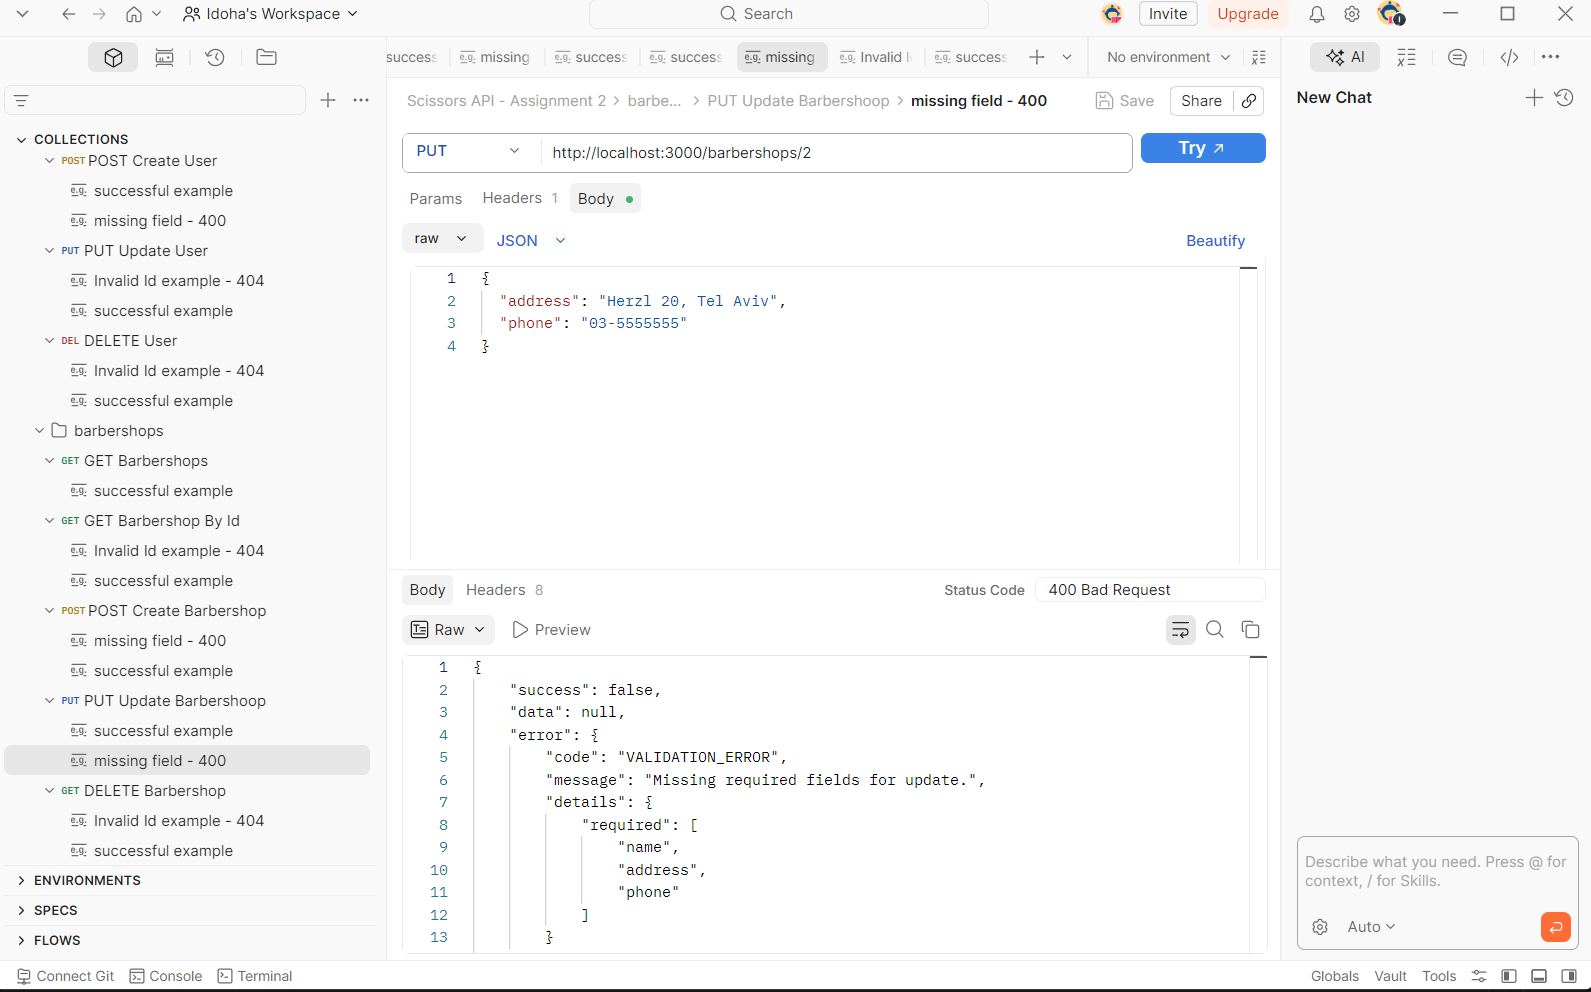
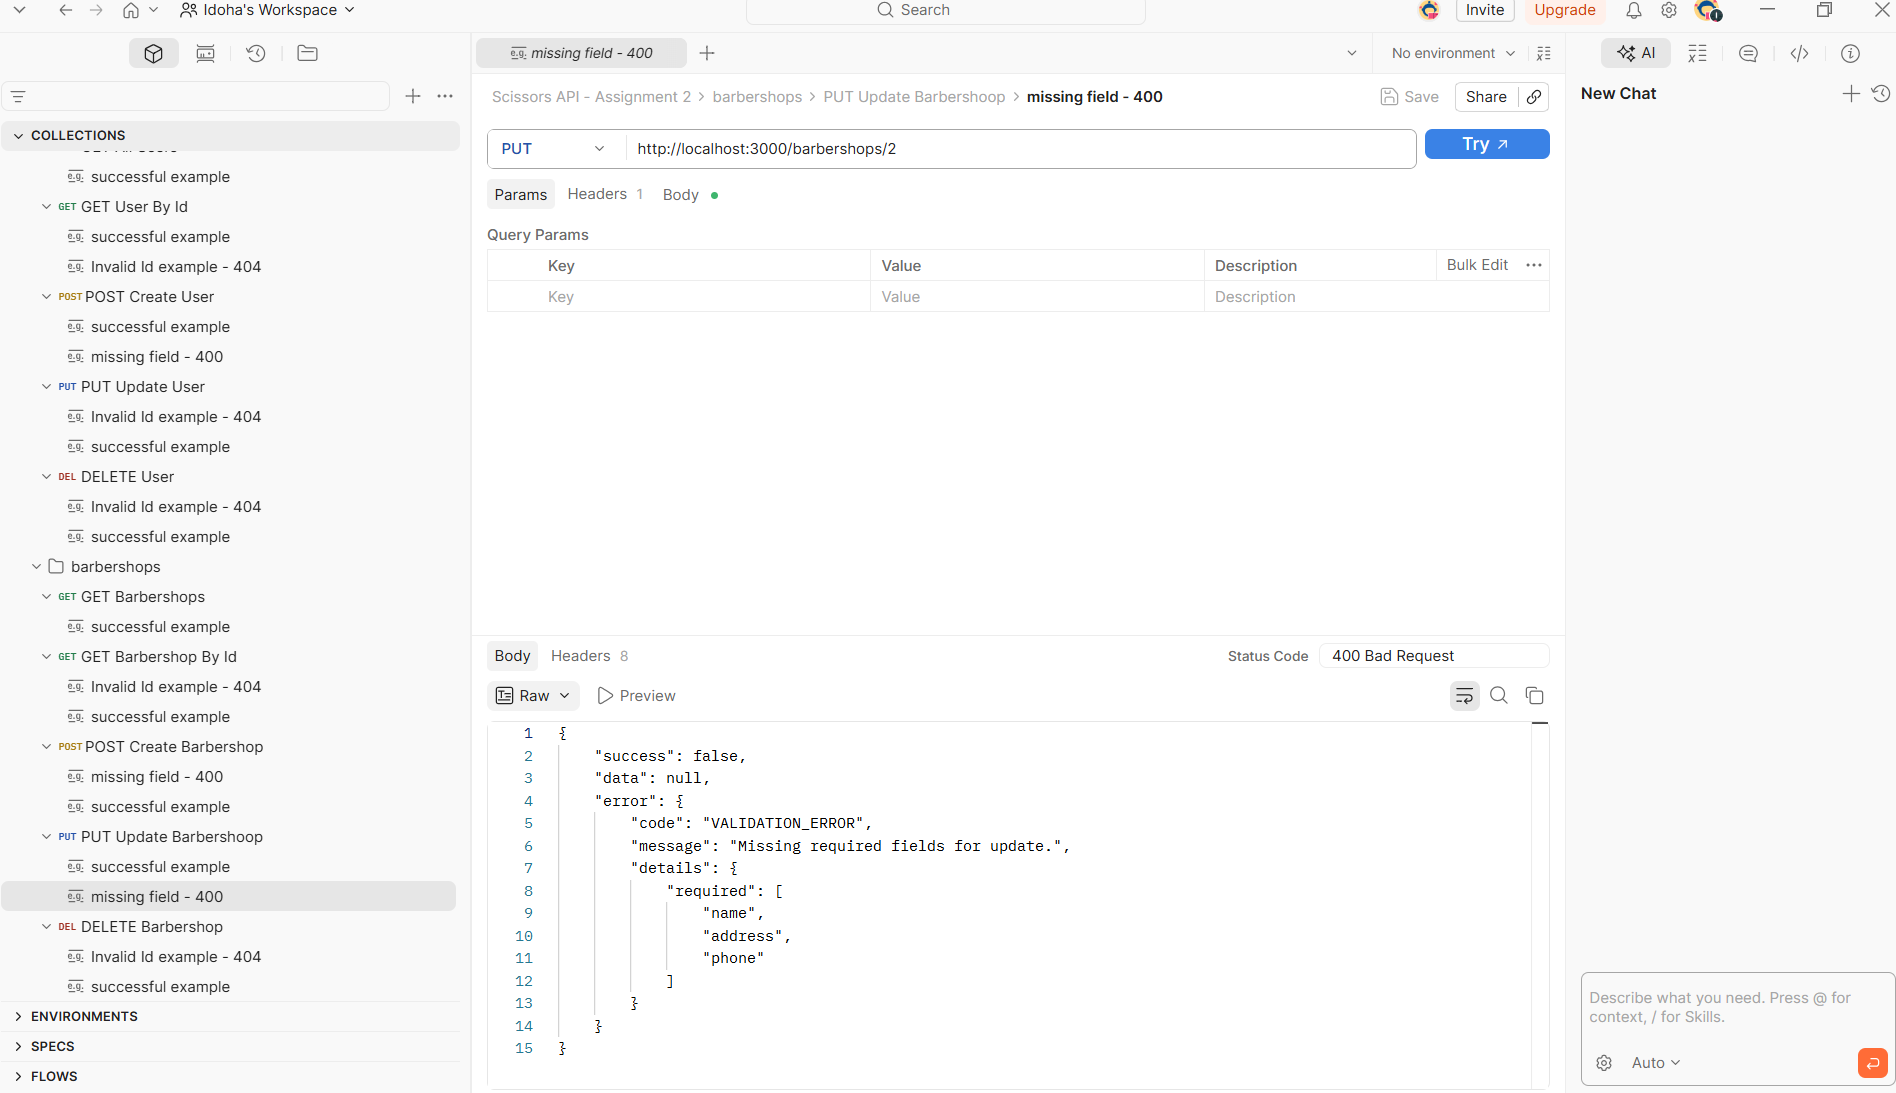
Final changes for submission

diff --git a/server/README.md b/server/README.md
@@ -1,7 +1,7 @@
 # Scissors API - Assignment 2
 
 ## How to Run
-1. Open the terminal in the `server` folder.
+1. Open the terminal.
 2. Run: `npm install`
 3. Run: `node server.js`
 4. The server runs on: `http://localhost:3000`

diff --git a/server/docs/README.md b/server/docs/README.md
@@ -1,7 +1,7 @@
 # Scissors API - Assignment 2
 
 ## How to Run
-1. Open the terminal in the `server` folder.
+1. Open the terminal.
 2. Run: `npm install`
 3. Run: `node server.js`
 4. The server runs on: `http://localhost:3000`
